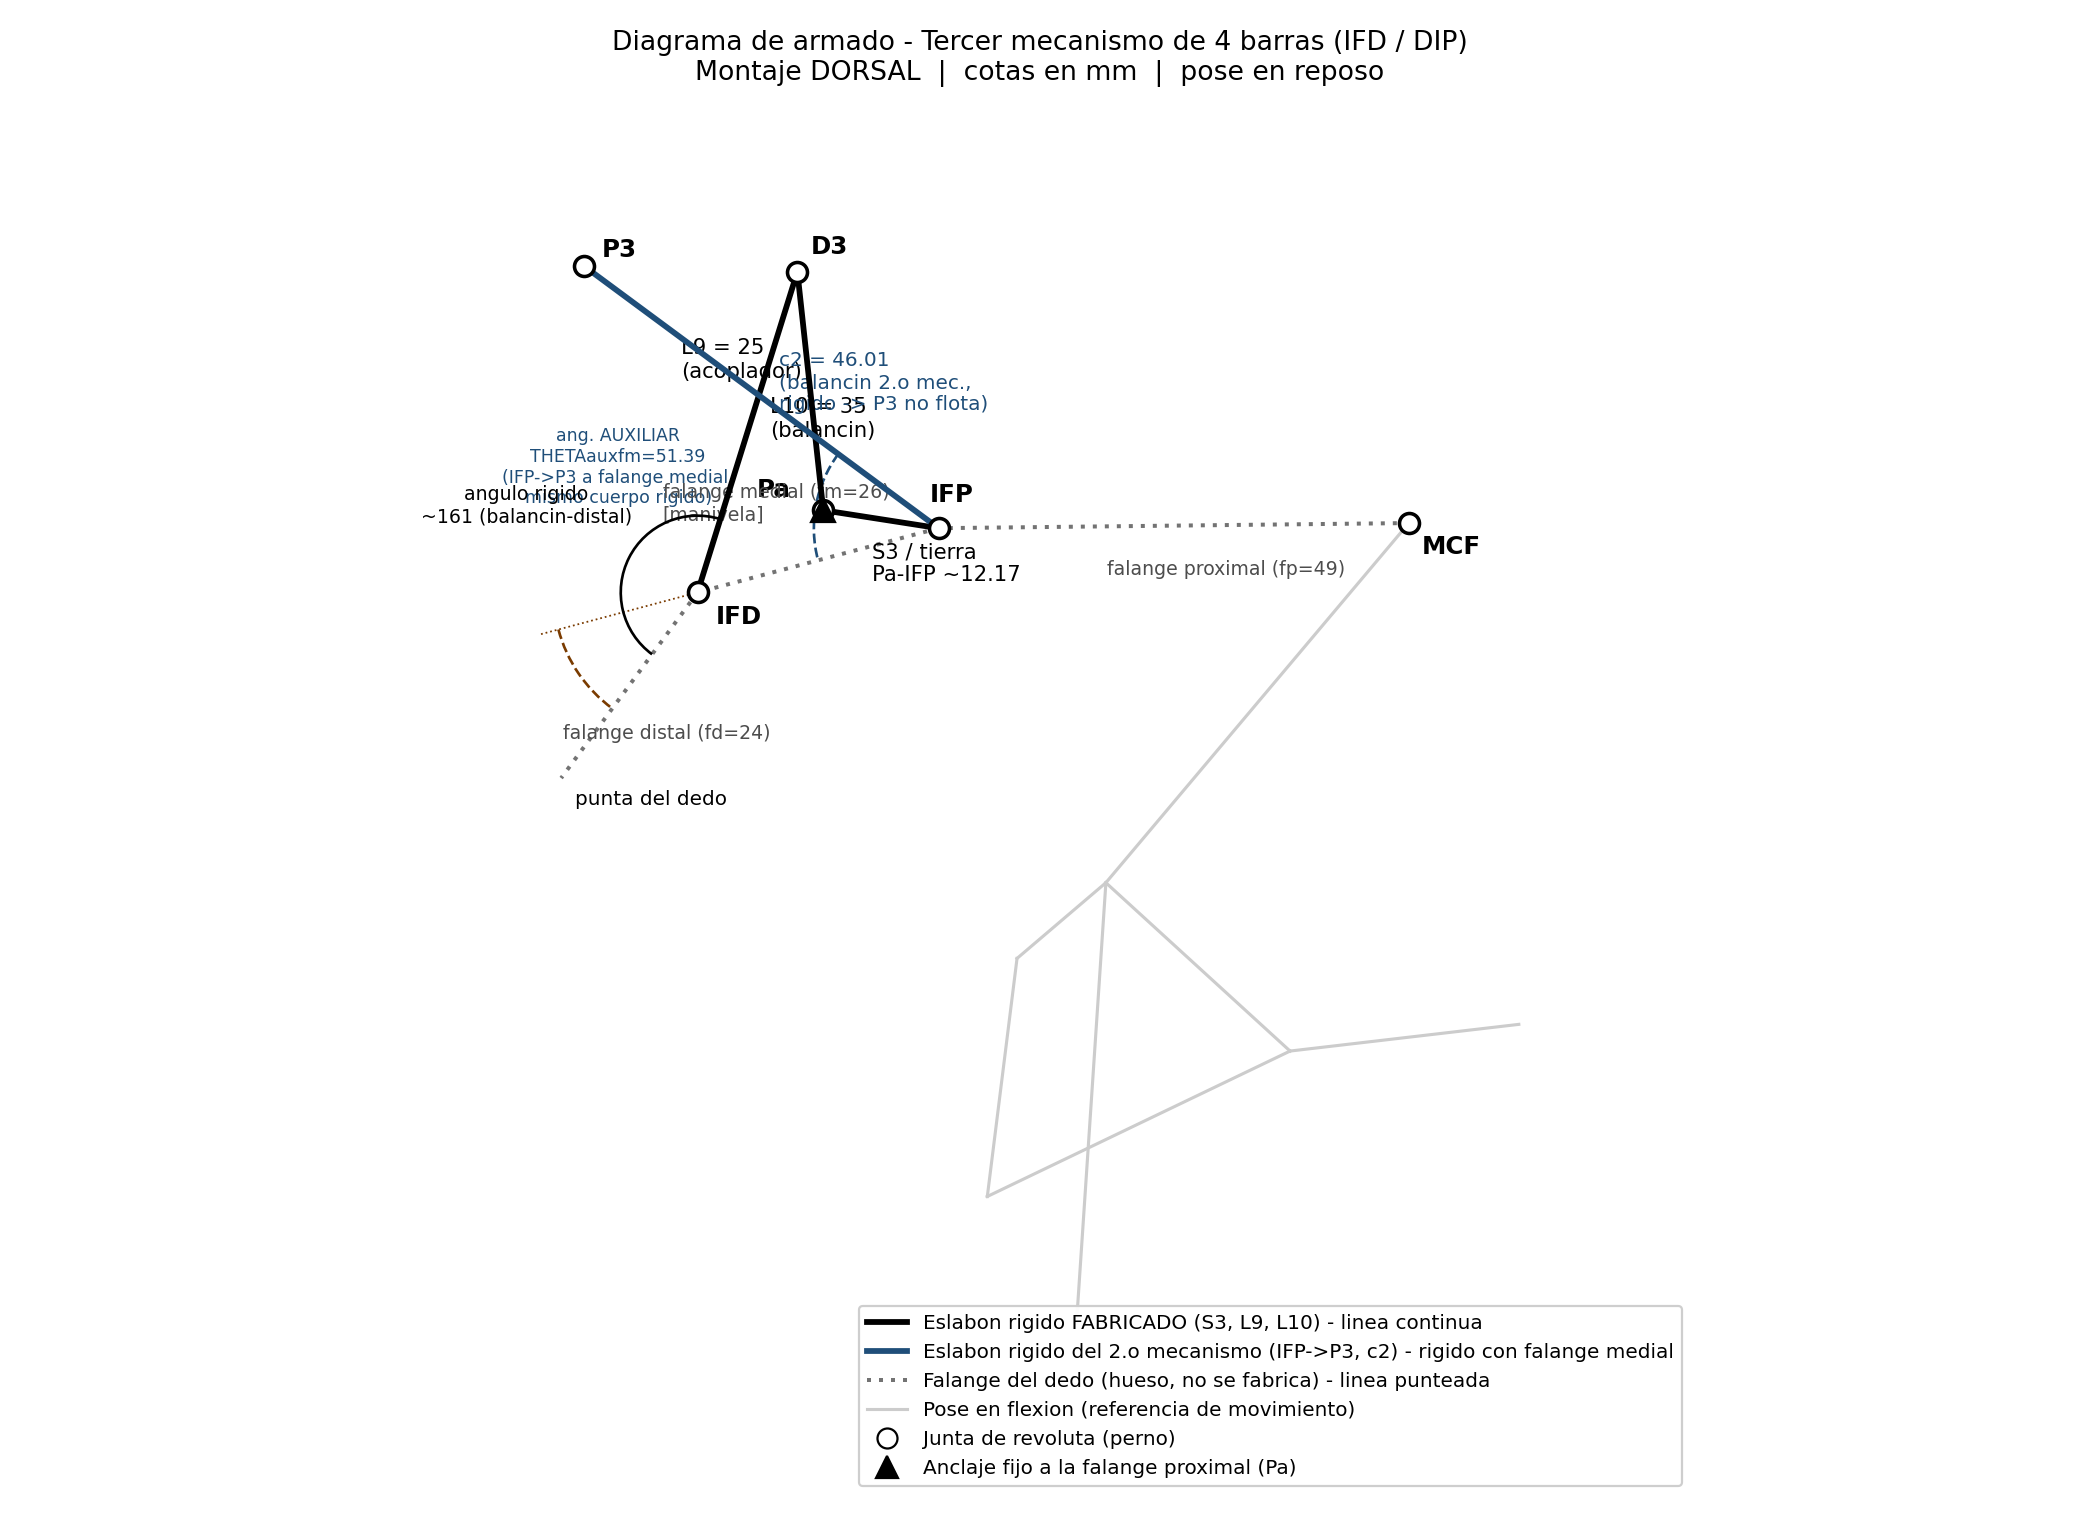
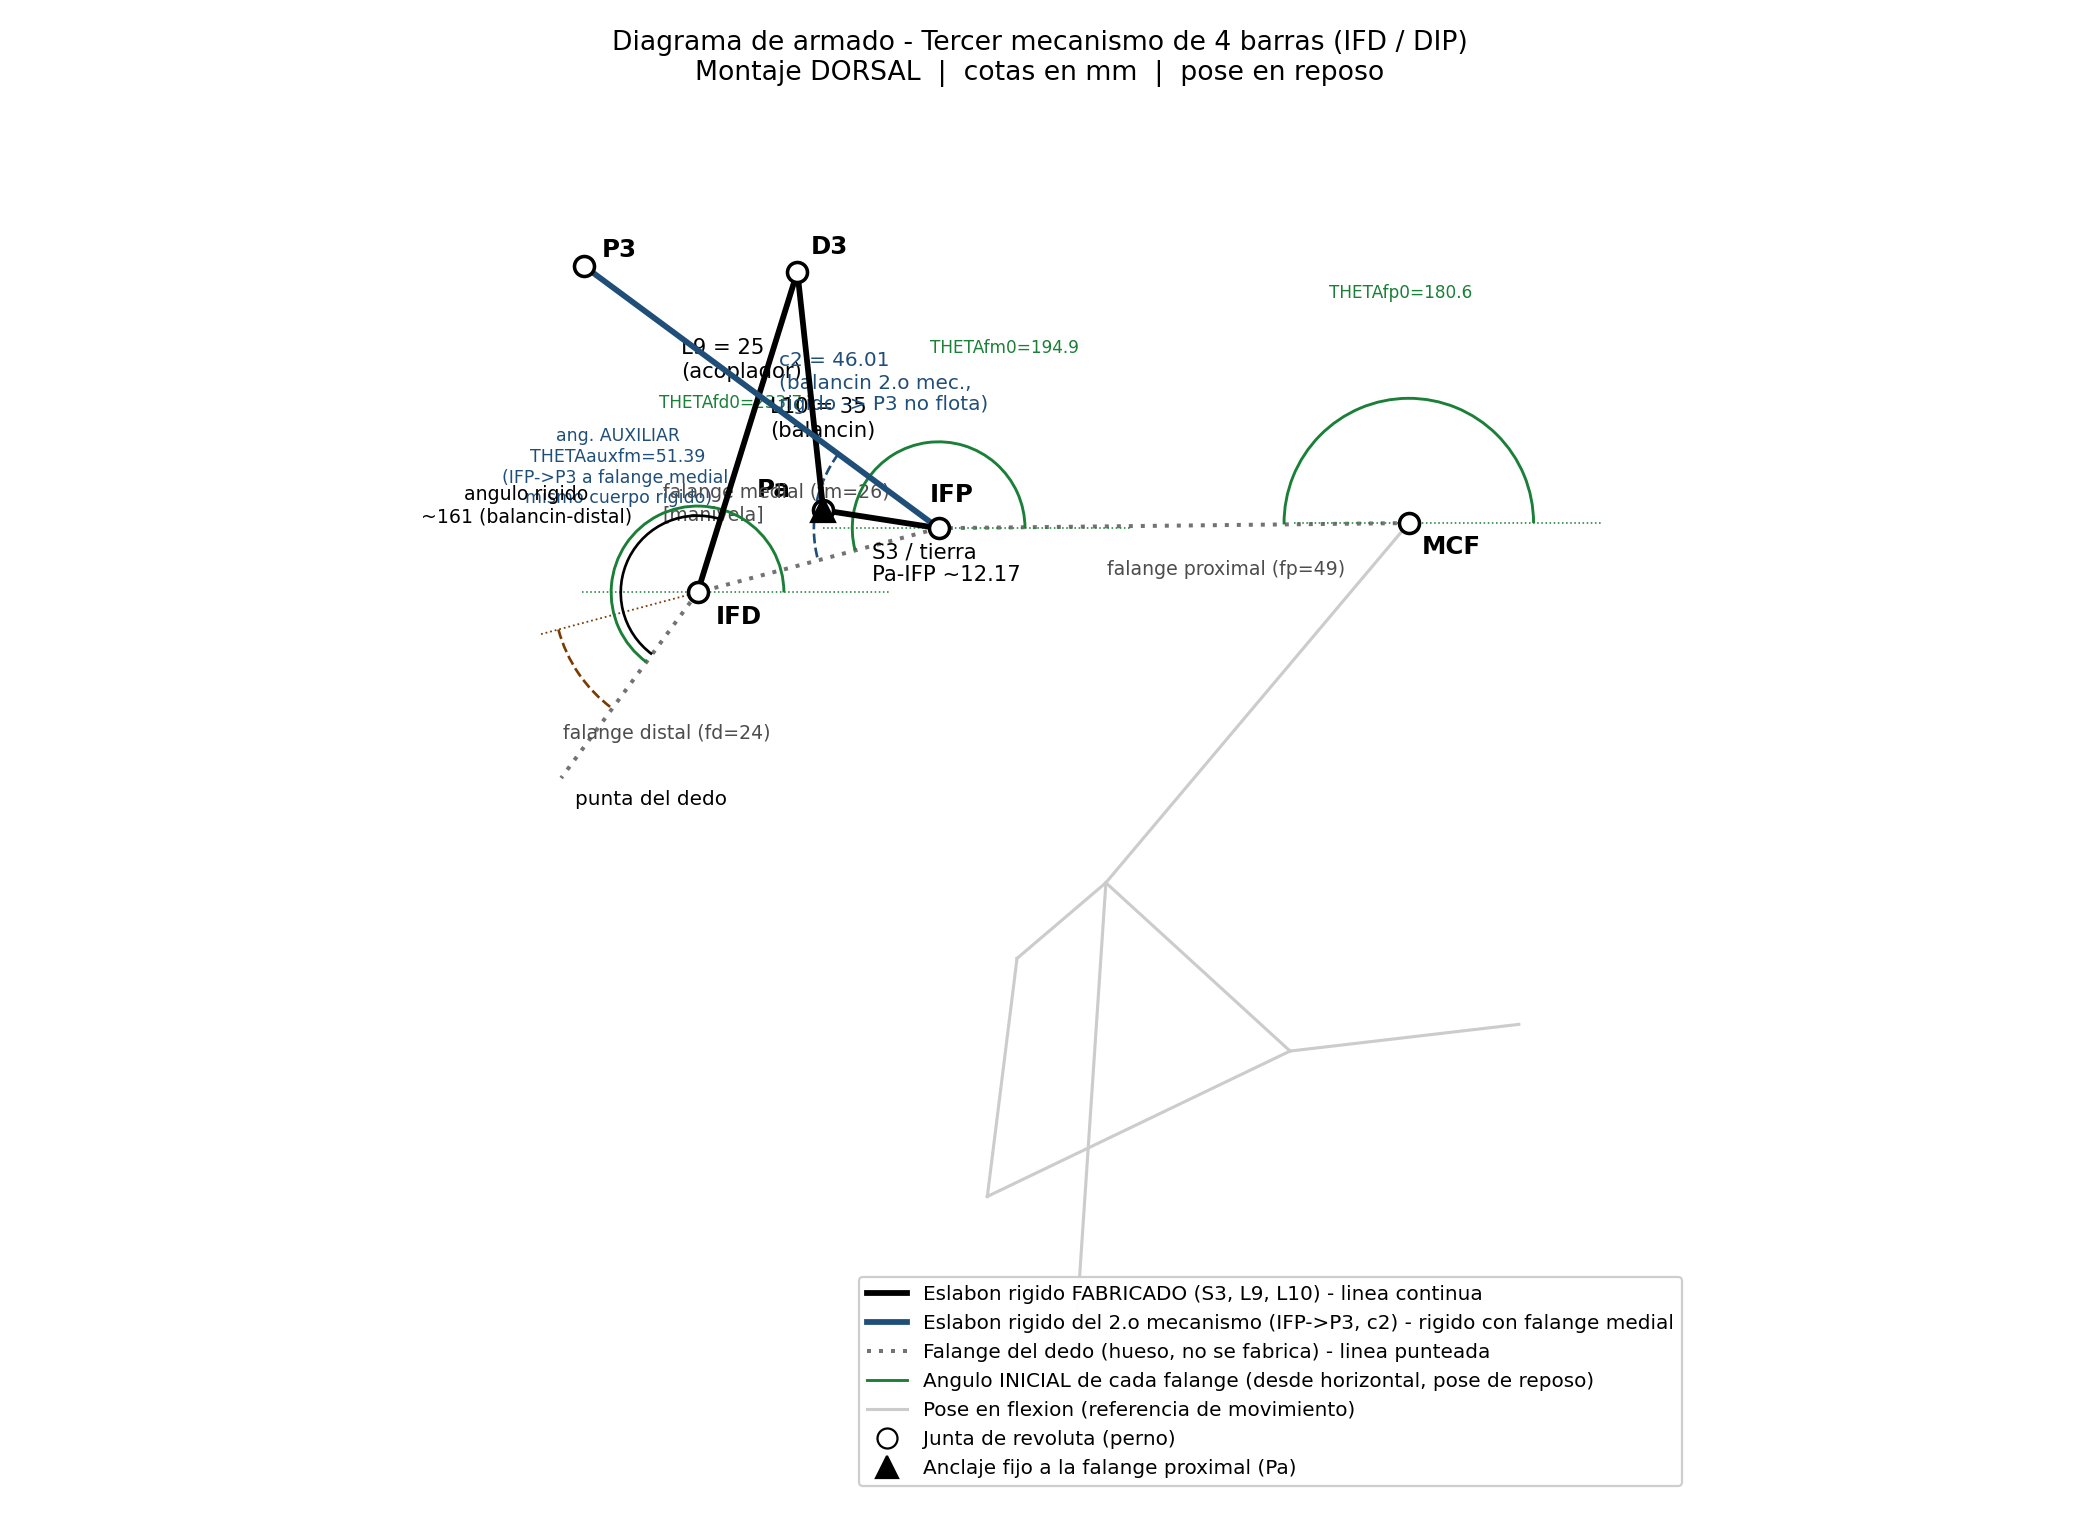
Dibujar los angulos iniciales de cada falange en el diagrama de armado
Se anaden las orientaciones absolutas iniciales (pose de reposo j=0),
medidas desde la horizontal (+X) en sentido antihorario, con linea de
referencia punteada y arco verde en cada articulacion:
- THETAfp0=180.6 (falange proximal, en MCF)
- THETAfm0=194.9 (falange medial, en IFP)
- THETAfd0=233.7 (falange distal, en IFD)
Incluye entrada de leyenda para los angulos iniciales.

diff --git a/diagrama_armado_tercer_mecanismo.py b/diagrama_armado_tercer_mecanismo.py
@@ -121,6 +121,32 @@ def dibujar():
     dibujar_arco(IFD, afm_dir, afd_dir, 30, "#7a3b00",
                  "ang. AUXILIAR\nTHETAauxfd=38.78\n(medial -> distal)", rtxt=40)
 
+    # --- ANGULOS INICIALES (orientacion absoluta de cada falange en reposo) ---
+    # Medidos desde la HORIZONTAL (+X) en sentido antihorario, en la pose j=0.
+    # Son la configuracion angular de partida que el CAD debe reproducir.
+    def angulo_inicial(centro, theta_abs, etiqueta, radio, lblang=None,
+                       color="#1a7f37"):
+        t = theta_abs % 360.0
+        # linea de referencia horizontal (0 grados) hacia +X y -X
+        ax.plot([centro[0] - 12, centro[0] + 20], [centro[1], centro[1]],
+                color=color, lw=0.7, ls=":", zorder=3)
+        arc = plt.matplotlib.patches.Arc(centro, 2 * radio, 2 * radio, angle=0,
+                                         theta1=0, theta2=t,
+                                         color=color, lw=1.3, zorder=4)
+        ax.add_patch(arc)
+        amid = np.radians(lblang if lblang is not None else t / 2.0)
+        ax.annotate(etiqueta,
+                    centro + (radio + 11) * np.array([np.cos(amid), np.sin(amid)]),
+                    fontsize=7.6, ha="center", va="center", color=color)
+
+    thfp0 = est0["THETAfp"]
+    thfm0 = est0["THETAfm"]
+    thfd0 = tm0["THETAfd"]
+    angulo_inicial(MCF, thfp0, f"THETAfp0={thfp0:.1f}", radio=13, lblang=92)
+    angulo_inicial(IFP, thfm0, f"THETAfm0={thfm0:.1f}", radio=9, lblang=70)
+    angulo_inicial(IFD, thfd0, f"THETAfd0={thfd0:.1f}", radio=9, lblang=80)
+
+
     # --- Articulaciones (revoluta): circulos blancos borde negro ---
     joints = {"MCF": MCF, "IFP": IFP, "IFD": IFD, "Pa": Pa, "D3": D3, "P3": P3}
     for name, p in joints.items():
@@ -166,6 +192,7 @@ def dibujar():
         Line2D([0], [0], color="black", lw=2.6, label="Eslabon rigido FABRICADO (S3, L9, L10) - linea continua"),
         Line2D([0], [0], color="#1f4e79", lw=2.6, label="Eslabon rigido del 2.o mecanismo (IFP->P3, c2) - rigido con falange medial"),
         Line2D([0], [0], color="0.45", lw=1.8, linestyle=(0, (1, 2)), label="Falange del dedo (hueso, no se fabrica) - linea punteada"),
+        Line2D([0], [0], color="#1a7f37", lw=1.3, label="Angulo INICIAL de cada falange (desde horizontal, pose de reposo)"),
         Line2D([0], [0], color="0.8", lw=1.4, label="Pose en flexion (referencia de movimiento)"),
         Line2D([0], [0], marker="o", mfc="white", mec="black", lw=0, ms=9, label="Junta de revoluta (perno)"),
         Line2D([0], [0], marker="^", color="black", lw=0, ms=10, label="Anclaje fijo a la falange proximal (Pa)"),